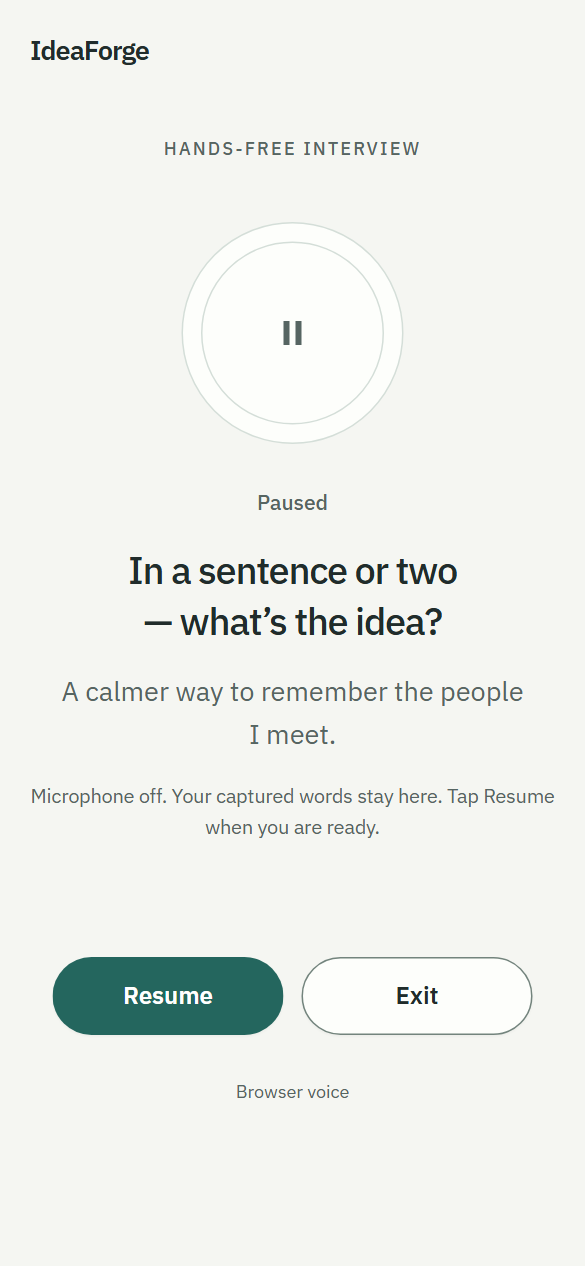
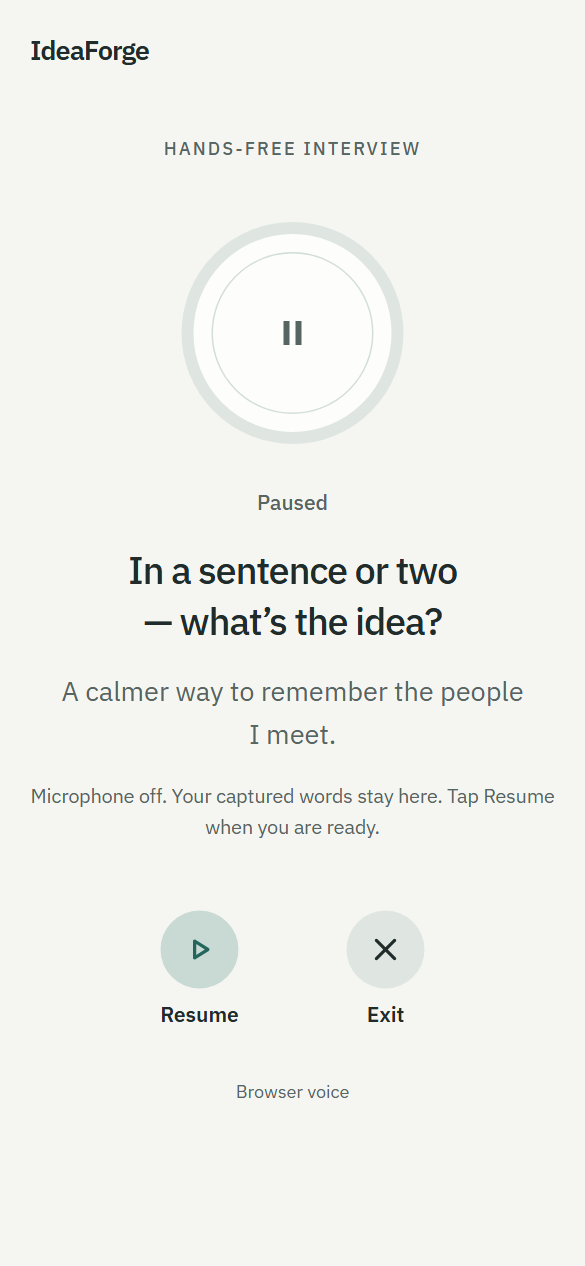
Voice stage visual refresh: tonal ring and circular Pause/Exit
Pause/Resume and Exit become tonal circular buttons with Material Symbols
icons (pause / play-arrow / close, set by voice-stage.js as data-icon so
index.html is untouched) and their visible label underneath, which stays the
accessible name. The orbit gets a tonal ring whose colour follows data-phase
(listening, speaking, thinking/transcribing, paused, recovering/blocked,
complete) in both themes; it is a static fill per phase, transitions only
through duration tokens, and never pulses. The bars still move only from real
microphone samples.

The voice-stage probe now checks, with the reduced-motion rule switched off in
its frame, that with no measured level no keyframe animation is on any bar
and bar transforms are identical across two frames and a further 150ms; and,
with the coarse-pointer rule activated, that Pause and Exit keep their labels
as names, draw a local mask icon and are at least 48x48. Planted faults (a
keyframe animation on the bars, a setInterval writing --voice-sample) each
fail the paused and thinking checks.

Closes #110

diff --git a/src/ui/app.css b/src/ui/app.css
@@ -444,9 +444,16 @@ button:disabled:hover { background: var(--surface-2); color: var(--ink-dim); bor
   width: var(--voice-size); height: var(--voice-size); max-width: 100%;
   margin-block: var(--s5) var(--s3); color: var(--ink-dim);
 }
+/* The tonal ring names the phase in colour as well as in the status text below it. It is a
+   static fill per phase: only a transition between two of them moves, and that transition
+   uses a duration token, so reduced motion removes it. Nothing here pulses on a timer. */
 .voice-orbit {
   position: absolute; inset: 0; display: grid; place-items: center;
-  border: 1px solid var(--line); border-radius: 50%; background: var(--surface);
+  border: var(--s2) solid var(--voice-ring, var(--surface-container));
+  border-radius: 50%; background: var(--surface-container-lowest);
+  box-shadow: 0 0 0 var(--s2) var(--voice-halo, transparent);
+  transition: border-color var(--dur-medium2) var(--ease-standard),
+              box-shadow var(--dur-medium2) var(--ease-standard);
 }
 .voice-orbit::before, .voice-orbit::after { content: ""; position: absolute; }
 .voice-orbit::before {
@@ -465,8 +472,25 @@ button:disabled:hover { background: var(--surface-2); color: var(--ink-dim); bor
   transition: transform .08s linear;
 }
 .voice-bars span:last-child { transform: scaleY(calc(.08 + var(--voice-level) * .92)); }
+.voice-stage[data-phase="listening"] {
+  --voice-ring: color-mix(in srgb, var(--primary) 45%, var(--surface-container-lowest));
+  --voice-halo: color-mix(in srgb, var(--primary) 14%, transparent);
+}
+.voice-stage[data-phase="speaking"] {
+  --voice-ring: color-mix(in srgb, var(--primary) 28%, var(--surface-container-lowest));
+  --voice-halo: color-mix(in srgb, var(--primary) 8%, transparent);
+}
+.voice-stage:is([data-phase="transcribing"], [data-phase="thinking"]) {
+  --voice-ring: color-mix(in srgb, var(--primary) 16%, var(--surface-container));
+}
+.voice-stage[data-phase="paused"] { --voice-ring: var(--surface-container-high); }
+.voice-stage:is([data-phase="recovering"], [data-phase="blocked"]) {
+  --voice-ring: color-mix(in srgb, var(--warning) 40%, var(--surface-container-lowest));
+}
+.voice-stage[data-phase="complete"] {
+  --voice-ring: color-mix(in srgb, var(--success) 40%, var(--surface-container-lowest));
+}
 .voice-stage[data-phase="listening"] .voice-signal { color: var(--accent); }
-.voice-stage[data-phase="listening"] .voice-orbit { border-color: var(--line-strong); }
 .voice-stage[data-phase="listening"][data-has-level="true"] .voice-bars { opacity: 1; }
 .voice-stage[data-phase="listening"][data-has-level="true"] .voice-orbit::after { display: none; }
 /* Native speech has no measured output amplitude: these two rings stay still. */
@@ -507,14 +531,52 @@ button:disabled:hover { background: var(--surface-2); color: var(--ink-dim); bor
 }
 .voice-detail { width: 46ch; color: var(--ink-dim); font-size: var(--t-sm); }
 .voice-actions {
-  display: flex; flex-wrap: wrap; justify-content: center; gap: var(--s3);
+  display: flex; flex-wrap: wrap; justify-content: center; gap: var(--s7);
   width: 20rem; max-width: 100%; margin-top: auto;
   position: sticky; bottom: 0; z-index: 2; background: var(--ground);
   padding-block: var(--s4) max(var(--s3), env(safe-area-inset-bottom));
 }
-.voice-actions button {
-  flex: 1 1 7rem; min-width: var(--control-height); min-height: var(--voice-control-height);
-  padding-inline: var(--s5); border-radius: var(--r-pill); font-size: var(--t-base);
+/* Tonal circular buttons with the label underneath. The whole column — circle and label —
+   is the button, so the target is far past 48px, and the visible label is its accessible
+   name. voice-stage.js sets data-icon (pause, play-arrow, close); the circle is ::after
+   and the icon mask is ::before above it, because one pseudo-element cannot be both a
+   filled disc and a mask. Two classes plus the element, to outrank button.ghost:hover. */
+.voice-stage .voice-actions button {
+  --voice-button: var(--voice-control-height);
+  --voice-fill: var(--surface-container-high);
+  --voice-ink: var(--on-surface);
+  position: relative; isolation: isolate; flex: none;
+  display: inline-flex; flex-direction: column; align-items: center;
+  min-width: calc(var(--voice-button) + var(--s5)); min-height: var(--control-height);
+  padding: calc(var(--voice-button) + var(--s2)) var(--s2) var(--s1);
+  border: 0; border-radius: var(--r-md); background: transparent; box-shadow: none;
+  color: var(--on-surface); font-size: var(--t-md); font-weight: 600; line-height: 1.35;
+}
+.voice-stage .voice-actions button::after {
+  content: ""; position: absolute; z-index: -1; top: 0; left: 50%;
+  width: var(--voice-button); height: var(--voice-button); margin-left: calc(var(--voice-button) / -2);
+  border-radius: 50%; background: var(--voice-fill);
+  transition: background-color var(--dur-short2) var(--ease-standard);
+}
+.voice-stage .voice-actions button::before {
+  --icon-size: 26px;
+  position: absolute; top: calc((var(--voice-button) - var(--icon-size)) / 2); left: 50%;
+  margin: 0 0 0 calc(var(--icon-size) / -2); color: var(--voice-ink);
+}
+.voice-stage .voice-actions #b-voice-pause {
+  --voice-fill: color-mix(in srgb, var(--primary) 24%, var(--surface-container-lowest));
+  --voice-ink: var(--primary);
+}
+.voice-stage .voice-actions button:hover { background: transparent; }
+.voice-stage .voice-actions button:hover::after {
+  background: color-mix(in srgb, var(--voice-ink) var(--state-hover), var(--voice-fill));
+}
+.voice-stage .voice-actions button:active::after {
+  background: color-mix(in srgb, var(--voice-ink) var(--state-pressed), var(--voice-fill));
+}
+.voice-stage .voice-actions button:disabled {
+  --voice-fill: var(--surface-container); --voice-ink: var(--on-surface-variant);
+  background: transparent; color: var(--on-surface-variant);
 }
 .voice-backend { color: var(--ink-dim); font-size: var(--t-xs); }
 .voice-stage > :is(.voice-question, .voice-transcript, .voice-detail, .voice-backend):empty {

diff --git a/src/ui/voice-stage.js b/src/ui/voice-stage.js
@@ -16,6 +16,11 @@ export function normalizeVoiceLevel(rms) {
   return Number.isFinite(rms) ? Math.min(1, Math.max(0, rms) / .25) : null;
 }
 
+/** The icon is a ::before mask (src/ui/icons.css); it adds no text, so the label stays the name. */
+function setIcon(element, name) {
+  if (element.dataset.icon !== name) element.dataset.icon = name;
+}
+
 function setText(element, value) {
   const text = String(value ?? '');
   if (element.textContent !== text) element.textContent = text;
@@ -46,6 +51,9 @@ export function createVoiceStage(root) {
   const exit = find('b-voice-exit');
   const bars = [...signal.querySelectorAll('.voice-bars span')];
   if (!bars.length) throw new Error('Voice stage markup is missing its input-level bars.');
+
+  setIcon(pause, 'pause');
+  setIcon(exit, 'close');
 
   const samples = Array(bars.length).fill(0);
   let phase = null;
@@ -83,6 +91,7 @@ export function createVoiceStage(root) {
 
     const resumable = phase === 'paused' || phase === 'blocked';
     setText(pause, resumable ? 'Resume' : 'Pause');
+    setIcon(pause, resumable ? 'play-arrow' : 'pause');
     pause.disabled = resumable && Boolean(pending);
     exit.disabled = false;
   }

diff --git a/sw.js b/sw.js
@@ -12,7 +12,7 @@
 // a CACHED old secrets.js that knows nothing about the keyring — a mixed module graph
 // that fails in ways neither version would on its own. Renaming makes `activate` drop the
 // whole old cache at once.
-const CACHE = 'ideaforge-v16';
+const CACHE = 'ideaforge-v17';
 const GUIDE_PATH = new URL('./guide/', self.location.href).pathname;
 const GUIDE_SCREENSHOTS_PATH = new URL('./docs/screenshots/', self.location.href).pathname;
 

diff --git a/guide/mobile-and-voice.html b/guide/mobile-and-voice.html
@@ -121,6 +121,8 @@
       <p>
         A moving meter proves that samples arrived, not that the recogniser understood you.
         It stops outside listening; missing input is never replaced by an animated guess.
+        The ring around the indicator changes colour with the state, alongside the status
+        text, but it never pulses.
       </p>
       <p>
         If recorded dictation loses its meter, recording can continue without silence
